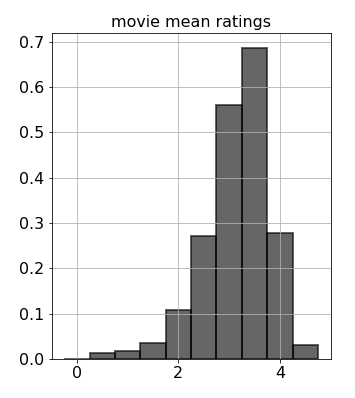
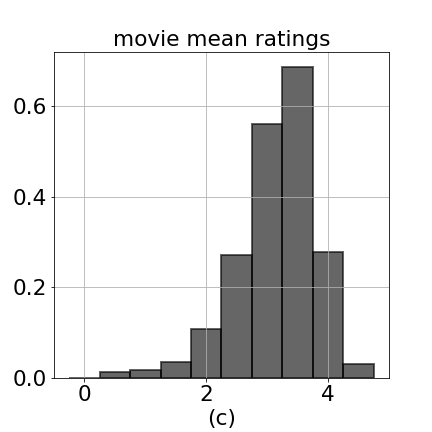
hyde

diff --git a/content/posts/Collaborative-Filtering-tensorflow.md b/content/posts/Collaborative-Filtering-tensorflow.md
@@ -8,10 +8,16 @@ author: "Safak Ozkan"
 
 ---
 
+<!-- ><p style="color:#cf494f">  $r_{ij}$   </p> -->
+
 ## 1. Problem Description
 We are given a rating matrix $R$ where only a small fraction of the entries $R_{ij}$ are provided; otherwise the rest is missing. The task is to predict those missing entries. As in most Machine Learning problems the assumption here is that there's an underlying stationary pattern as to how users rate the movies.
 
-By the nature of the problem, $R$ is a sparse matrix, where the sparsity comes not from zero entries but from empty records. Therefor, we represent the training data in 3 columns: $i$: user ID , $j$: movie ID and $R_{ij}$: the rating .
+By the nature of the problem, $R$ is a sparse matrix, where the sparsity comes not from zero entries but from empty records. Therefor, we represent the training data in 3 columns: $i$: user ID , $j$: movie ID and $R_{ij}$: the rating (see Table 1).    
+   
+
+<font size="+1"><strong><p align="center">Table 1. Ratings data in sparse format</p></strong></font>
+
 
 | $i$: user ID | $j$: movie ID   | $R_{ij}$: the rating |
 |:-----:|:------:|:-----:|
@@ -36,14 +42,14 @@ The terms *Collaborative Filtering*, *Matrix Factorization* and *Low-Rank Matrix
 
 The Collaborative Filtering Model can also be described as reconstructing a **low rank approximation** of matrix $R$ via its **Singular Value Decomposition** $R = U \cdot \Sigma \cdot V^T$. The low-rank reconstruction is achieved by only retaining the largest $k$ singular values, $R_k=U \cdot \Sigma_k \cdot V^T$.
 
-**Eckart-Young Theorem** states that if $R_k$ is the best rank-$k$ approximation of $R$, then it's necessary that   
-	
-1. $R_k$ minimizes the Frobenius norm $||R-R_k||_F^2$, and
-2. $R_k$ can be constructed by retaining only the largest $k$ singular values in the SVD formulation $R_k=U \cdot \Sigma\_k \cdot V^T$.
+**Eckart-Young Theorem** states that if $R_k$ is the best rank-$k$ approximation of $R$, then it's necessary that:  
+ 
+&nbsp;&nbsp;&nbsp;&nbsp;&nbsp;&nbsp;&nbsp;&nbsp;&nbsp;&nbsp;   1. $R_k$ minimizes the Frobenius norm $||R-R_k||_F^2$, and   
+&nbsp;&nbsp;&nbsp;&nbsp;&nbsp;&nbsp;&nbsp;&nbsp;&nbsp;&nbsp;   2. $R_k$ can be constructed by retaining only the largest $k$ singular values in the SVD formulation $R_k=U \cdot \Sigma\_k \cdot V^T$.
 
 We can further absorb the diagonal matrix $\Sigma\_k$ into $U$ and $V$ and express the factorization as a simple dot product between the feature matrices for users and movies.
  
-&nbsp;&nbsp;&nbsp;&nbsp;&nbsp;&nbsp;&nbsp;&nbsp;&nbsp;&nbsp;&nbsp;&nbsp;&nbsp;&nbsp;&nbsp;&nbsp;&nbsp;&nbsp; $R\_{k(m \times n)} = U\_{(m \times k)} \cdot V\_{(k \times n)}^T$    
+<p align="center">$R_{k(m \times n)} = U_{(m \times k)} \cdot V_{(k \times n)}^T$</p>
 
 where, the parentheses indicate matrix size.  
 $m$: number of users ($m = 138493$)  
@@ -53,42 +59,56 @@ $U$: user feature matrix
 $V$: movies feature matrix    
 
 <img src="/Drawing.png" alt="Drawing" width="1000" />
+<font size="+1"><strong><p align="center">Figure 1. A conceptual sketch of the Ratings data matrix $R$ decomposed into its factors: user feature matrix, $U$, and movie feature matrix, $V$. Dots in the figure, $\cdot$, illustrate given values; and question marks, $?$, the missing values. Each entry $r_{ij}$ is expressed as a dot product of the user and movie embedding vectors $u_i$ and $v_j$, respectively.</strong></font>  
 
 Hence, we formulate the problem as an **optimization problem** and search for $U$ and $V$ by minimizing the following loss function $L$.    
 
-&nbsp;&nbsp;&nbsp;&nbsp;&nbsp;&nbsp;&nbsp;&nbsp;&nbsp;&nbsp;&nbsp;&nbsp;&nbsp;&nbsp;&nbsp;&nbsp;&nbsp;&nbsp; $argmin\_{\ U,V}\ L = ||R-U\cdot V^T||_F^2$.
+<p align="center">$argmin_{\ U,V}\ L = ||R - U \cdot V^T||_F^2$.</p>
 
-> *An important point to make is the Frobenius norm is only a partial summation computed over the entries in $R$ where a rating is provided. In the tensorflow implementation, we don't compute the complete matrix multiplication $U \cdot V^T$ but only the dot products of $u\_i \cdot v\_j^T$ where a rating $R\_{ij}$ is provided.*
+> *An important point to make is that the Frobenius norm is computed only as a partial summation over the entries in $R$ where a rating is provided.*
 
 The optimization procedure searches for the values of all entries in $U$ and $V$. There are $(m+n) \times k$ many tunable variables.
 
 The hyperparameter $k$ is to be chosen carefully by cross-validation. A small $k$ would not be enough to explain the pattern in the data adequately (*underfitting*), and too large a $k$ value would result in a model fitting on the random noise over the pattern (*overfitting*).
 
-> *It's a worth making a brief interpretation of the feature matrices $U$ and $V$. In the $k$-rank approximation scheme, each rating $R\_{ij}$ is expressed by the dot product $u\_i \cdot v\_j^T$ ---$i^{th}$ row of $U$ and $j^{th}$ row of $V$. The goal of our optimization routine is for the model to learn a* ***latent feature representation*** *(or alternatively an* ***embedding vector***) *for each user $u\_i$, and movie $v\_j$.  By the word latent, it's implied that the features are not explicitly defined by us nor they're clearly  interpretable. Each entry in the user and movie embedding vectors $u\_i$ and $v\_j$ corresponds to an abstract feature. These features can, for instance, be the genre of the movie, or how action-filled or dramatic, entertaining or romantic the movie is or anything that would help characterize how the users rate movies.*  
+> *It's worth making a brief interpretation of the feature matrices $U$ and $V$. In the $k$-rank approximation scheme, each rating $r\_{ij}$ is expressed by the dot product $u\_i \cdot v\_j^T$ (see Figure 1). The goal of our optimization routine is for the model to learn a* ***latent feature representation*** *(or alternatively an* ***embedding vector***) *for each user and movie.*   
 > \
-> *Hence, the dot product representation of the ratings $r\_{ij} = u\_i \cdot v\_j^T$ points to a linear combination of how much that feature is contained in the movie and how much that feature is favored by the user.*
+> *The term* ***latent*** *implies that the features are not explicitly defined by us nor they're definitively interpretable once the embeddings are learned by the model. Each entry in the embedding vectors $u\_i$ and $v\_j$ corresponds to the weight coefficient of an abstract feature. These features can specify the movie genre,  how action-filled or dramatic or any other distinguishing quality that would help characterize how the users rate movies. Hence, the dot product representation of the ratings $r\_{ij} = u\_i \cdot v\_j^T$ points to a* ***linear combination*** *of   
 > \
-> &nbsp;&nbsp;&nbsp;&nbsp;&nbsp;&nbsp;&nbsp;&nbsp;&nbsp;&nbsp;&nbsp;&nbsp;&nbsp;&nbsp;&nbsp;&nbsp;&nbsp;&nbsp; $r\_{ij} = \sum\_{p=1}^k u\_{ip}v\_{jp}$
-
-##### N.B. Explicitly  Defining Biases is not Necessary
-We abstain from imposing **biases** by enforcing an extra component in $U$ and $V$ set to constant 1, since the embeddings are free to learn biases if necessary.
-
-Since no particular bounds are imposed on the entries in the embedding vectors $u\_{i}$ and $v\_{j}$. The model is free to learn positive or negative real numbers.  
-
---- 
-## 3. Lab41 movie ratings data
-- ratings were given at intervals of 0.5: {0.0, 0.5, 1.0, 1.5, 2.0, 2.5, 3.0, 3.5, 4.0, 4.5, 5.0}
-
-<img src="/fig1.png" alt="fig1" height="500" width="40" />
-<img src="/fig2.png" alt="fig2" height="500" width="40" />
-<img src="/fig3.png" alt="fig3" height="500" width="40" />
-<img src="/fig4.png" alt="fig4" height="500" width="40" />
+> &emsp;&emsp;&emsp; 1. how much that feature is contained in the movie, and    
+> &emsp;&emsp;&emsp; 2. how much that feature is favored by the user.*   
 
 
 --- 
+## 3. MovieLens 20M data
+- The collaborative filtering model is used to predict ratings of the [MovieLens dataset](https://grouplens.org/datasets/movielens/20m/).
+- ml-20m data set consists of 20000263 ratings from 138493 users on 27278 movies.
+- All ratings are given at intervals of 0.5:  
+{0.0, 0.5, 1.0, 1.5, 2.0, 2.5, 3.0, 3.5, 4.0, 4.5, 5.0}
+
+<div style="width:700 px">
+	<div style="float:left; width:300">
+		<img src="/fig1.png" alt="fig1" width="300" />
+	</div>
+	<div style="float:left; width:300">
+		<img src="/fig2.png" alt="fig2" width="300" />
+	</div>
+	<div style="float:left; width:300">
+		<img src="/fig3.png" alt="fig3" width="300" />
+	</div>
+	<div style="float:left; width:300">
+		<img src="/fig4.png" alt="fig4" width="300" />
+	</div>
+	<div style="clear:both"></div>
+</div>
+<br>
+<font size="+1"><b><p align="center">Figure 2. Histogram of *(a)* all ratings (*b*) user mean ratings \(*c*) movie mean ratings, and (*d*) 
+	number of ratings provided by users. Minimum number of ratings provided by a user is 20, and maximum is 9254 ratings.</b></font>  
+
+---   
 
 ## 4. Challenges in Developing the Model on `tensorflow`
-- A particular challenge in implementing a Matrix Factorization algorithm on `tensorflow` is that we can't naively pass `None` for the `shape` argument while declaring the input data tensors `R` and `R\_indices` as in `R = tf.placeholder(..., shape=(None))`. Since every rating `R[i,j]` is a function of only $2*k$ tunable variables. The `shape` parameter corresponds to how many ratings will make up a single batch in the SGD routine. To make the SGD work, I had to fix the `shape` of the `tf.placeholder` `R` and `R\_indices`  to `shape=(BATCH_SIZE, k)` instead of `shape=(None, k)`. This a small price to pay that allows me to use GPU computation and also backprop with symbolic differentiation, which gave me the flexibility to experiment in trying additional non-linear terms in the loss function without having the worry about the partial differentials with respect to the tunable variables.  
+- A particular challenge in implementing a Matrix Factorization algorithm on `tensorflow` is that we can't naively pass `None` for the `shape` argument while declaring the input data tensors `R` and `R_indices` as in `R = tf.placeholder(..., shape=(None))`. Since every rating `R[i,j]` is a function of only $2*k$ tunable variables. The `shape` parameter corresponds to how many ratings will make up a single batch in the SGD routine. To make the SGD work, I had to fix the `shape` of the `tf.placeholder` `R` and `R_indices`  to `shape=(BATCH_SIZE, k)` instead of `shape=(None, k)`. This a small price to pay that allows me to use GPU computation and also backprop with symbolic differentiation, which gave me the flexibility to experiment in trying additional non-linear terms in the loss function without having the worry about the partial differentials with respect to the tunable variables.  
 
 ```python
 R = tf.placeholder(dtype=tf.float32, shape=(BATCH_SIZE,))
@@ -122,6 +142,9 @@ def get_stacked_UV(R_indices, R, U, V, k, BATCH_SIZE):
 
 ## 5. Practical Methodology
 - Shuffling the data before splitting it into train, CV and test sets was crucial.
+- Explicitly  Defining Biases is not Necessary   
+We abstain from imposing **biases** by enforcing an extra component in $U$ and $V$ that's set to constant 1, since the embeddings are free to learn biases if necessary. 	
+- Since no particular bounds are imposed on the entries in the embedding vectors $u\_{i}$ and $v\_{j}$. The model is free to learn positive or negative real numbers.  
 
 ##### Splitting the Input Data:
 - Training Data takes up 64% of the input data, 
@@ -150,8 +173,7 @@ $$r\_{ij} = u\_{i} \cdot v\_{j}^T$$
 
 Here, each user feature vector $u\_i$ and movie feature vector $v\_j$ is of length $k$. and the classical matrix factorization multiplies $p^{th}$ feature of $u\_{i}$ with  $p^{th}$ feature of $v\_{j}$. Here, one can assume the feature $p$ corresponds to how much of a specific genre is present in movie $j$ and how much a user $i$ likes that specific genre. When the rating $y\_{ij}$ is modeled by a dot product between $u\_i$ and $v\_j$.   
 
-&nbsp;&nbsp;&nbsp;&nbsp;&nbsp;&nbsp;&nbsp;&nbsp;&nbsp;&nbsp;&nbsp;&nbsp;&nbsp;&nbsp;&nbsp;&nbsp;&nbsp;&nbsp; 
-**=> Linear Model: MAE (CV) = 0.6237**
+&emsp;&emsp;&emsp;&emsp;&emsp;**=> Linear Model: MAE (CV) = 0.6237**
 
 ## 9. Nonlinear Cross-Features:
 The rating prediction with cross-features 
@@ -160,7 +182,7 @@ $$r\_{ij} = u\_{i} \cdot v\_{j}^{T} + \sum\_{p=0}^{k}\sum\_{q=0}^{k} w\_{pq} (u\
 
 Here, we're multiplying $p^{th}$ feature of user $i$ with $q^{th}$ feature of movie $j$. This allows the model to learn cross interactions as, say, if a user likes the actor Tom Cruise (the $p^{th}$ feature--high  value for $u\_{ip}$), and she doesn't like dark and suspenseful thrillers ($q^{th}$ feature--low value for $u\_{iq}$), however, she likes the movie Eyes Wide Shut (even though it has a high value for $v\_{jq}$), because an underlying reason that makes her not like dark suspenseful movies perhaps disappears if Tom Cruise is in the movie. For a model to capture such a pattern, it has to allow some sort of **nonlinear interactions** between feature $p$ and feature $q$.  
 
-&nbsp;&nbsp;&nbsp;&nbsp;&nbsp;&nbsp;&nbsp;&nbsp;&nbsp;&nbsp;&nbsp;&nbsp;&nbsp;&nbsp;&nbsp;&nbsp;&nbsp;&nbsp; **=> Non-linear Model: MAE (CV) = 0.6150**
+&emsp;&emsp;&emsp;&emsp;&emsp;**=> Non-linear Model: MAE (CV) = 0.6150**
 
 ```
 R_pred = np.dot(U,V) + alpha1*(xft) + alpha2*(uv_sq)
